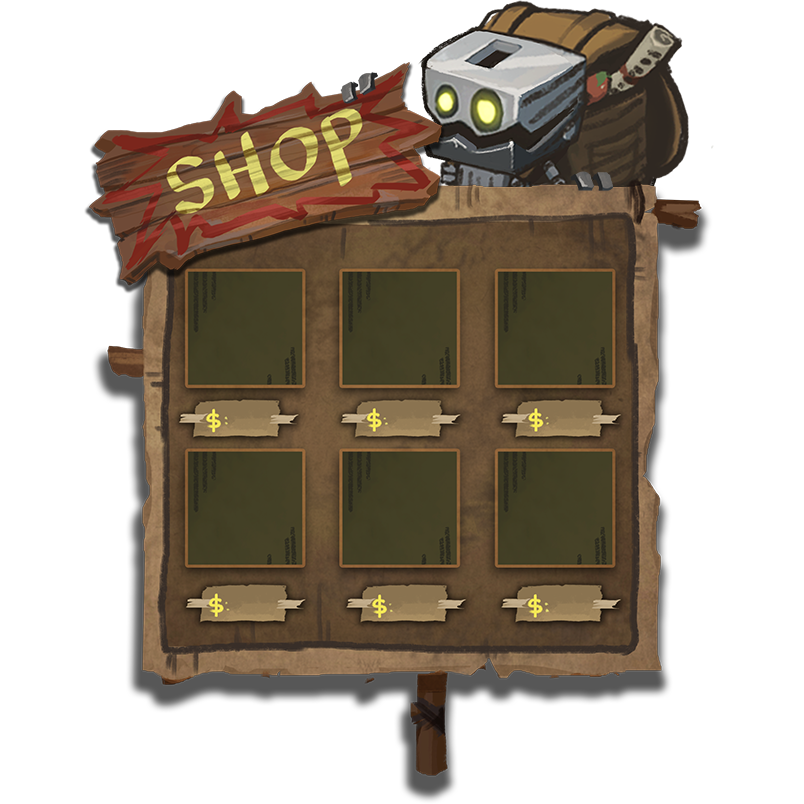
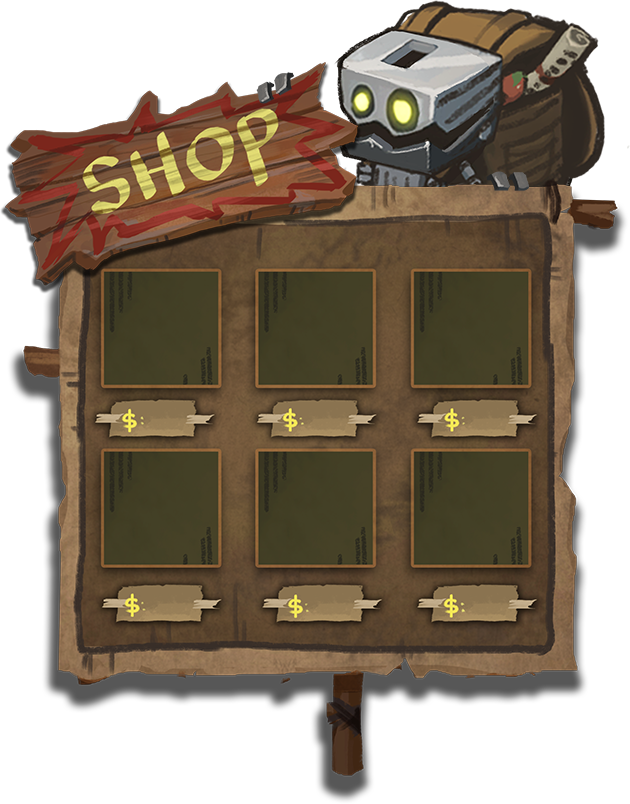
制作商店界面

diff --git a/client/src/view/TipConfirmView.ts b/client/src/view/TipConfirmView.ts
@@ -8,6 +8,7 @@ class TipConfirmView extends egret.DisplayObjectContainer {
         super();
         this.width = w;
         this.height = h;
+        this.name = "tipConfirm";
 
         this.bg = ViewUtils.createBitmapByName("translucent_png");
         this.bg.x = this.bg.y = 0;
@@ -32,14 +33,16 @@ class TipConfirmView extends egret.DisplayObjectContainer {
     }
 
     // 等待点击一下
-    onBgClicked;
     public wait4clickAny():Promise<void> {
         this.addChild(this.bg);
-        return new Promise<void>((resolve, reject) => this.onBgClicked = resolve);
+        return new Promise<void>((resolve, reject) => this.onBgClicked = () => {
+            this.removeChild(this.bg);
+            resolve();
+        });
     }
 
+    onBgClicked;
     onBg(evt:egret.TouchEvent) {
-        this.removeChild(this.bg);
         if (this.onBgClicked)
             this.onBgClicked();
     }
@@ -67,10 +70,13 @@ class TipConfirmView extends egret.DisplayObjectContainer {
     // yesno 部分
 
     private okyesnoPanel:egret.DisplayObjectContainer;
+    private yesnoBg:egret.Bitmap;
     private yesnoTitle:egret.TextField;
-    private btnOk:egret.TextField;
-    private btnYes:egret.TextField;
-    private btnNo:egret.TextField;
+    private yesnoContent:egret.TextField;
+    private btnOk:TextButtonWithBg;
+    private btnYes:TextButtonWithBg;
+    private btnNo:TextButtonWithBg;
+    private yesnoObjs:egret.DisplayObject[];
 
     createOkYesNoLayer() {
         this.okyesnoPanel = new egret.DisplayObjectContainer();
@@ -78,77 +84,73 @@ class TipConfirmView extends egret.DisplayObjectContainer {
         this.okyesnoPanel.width = this.width;
         this.okyesnoPanel.height = this.height;
 
-        this.yesnoTitle = new egret.TextField();
-        this.yesnoTitle.x = this.yesnoTitle.y = 0;
-        this.yesnoTitle.textAlign = egret.HorizontalAlign.CENTER;
-        this.yesnoTitle.verticalAlign = egret.VerticalAlign.MIDDLE;
-        this.yesnoTitle.textColor = 0x000000;
-        this.yesnoTitle.size = 50;
-        this.yesnoTitle.width = this.width;
-        this.yesnoTitle.height = this.height / 2;
-        this.okyesnoPanel.addChild(this.yesnoTitle);
+        this.yesnoBg = ViewUtils.createBitmapByName("confirmBg_png");
+        this.yesnoBg.name = "yesnoBg";
 
-        this.btnOk = ViewUtils.createTextField(30, 0x000000);
-        this.btnYes = ViewUtils.createTextField(30, 0x000000);
-        this.btnNo = ViewUtils.createTextField(30, 0x000000);
+        this.yesnoTitle = ViewUtils.createTextField(30, 0xff0000);
+        this.yesnoTitle.bold = true;
+        this.yesnoTitle.name = "yesnoTitle";
 
-        this.btnOk.touchEnabled = true;
-        this.btnYes.touchEnabled = true;
-        this.btnNo.touchEnabled = true;
-        this.btnOk.addEventListener(egret.TouchEvent.TOUCH_TAP, this.onConfirmOk, this);
-        this.btnYes.addEventListener(egret.TouchEvent.TOUCH_TAP, this.onConfirmYes, this);
-        this.btnNo.addEventListener(egret.TouchEvent.TOUCH_TAP, this.onConfirmNo, this);
+        this.yesnoContent = ViewUtils.createTextField(25, 0x00000);
+        this.yesnoContent.name = "yesnoContent";
+
+        this.btnOk = new TextButtonWithBg("btnBg_png", 30); this.btnOk.name = "btnOk";
+        this.btnYes = new TextButtonWithBg("btnBg_png", 30); this.btnYes.name = "btnYes";
+        this.btnNo = new TextButtonWithBg("btnBg_png", 30); this.btnNo.name = "btnNo";
+
+        this.yesnoObjs = [this.yesnoBg, this.yesnoTitle, this.yesnoContent, this.btnOk, this.btnYes, this.btnNo];
+        this.yesnoObjs.forEach((obj, _) => this.okyesnoPanel.addChild(obj));
+        ViewUtils.multiLang(this, ...this.yesnoObjs);
+
+        this.btnOk.onClicked = () => this.onConfirmOk();
+        this.btnYes.onClicked = () => this.onConfirmYes();
+        this.btnNo.onClicked = () => this.onConfirmNo();
     }
 
     private confirmOkCallback;
     private confirmYesNoCallback;
-    private confirmCancelCallback;
-    public confirmOkYesNo(title:string, yesno:boolean, btnText):Promise<boolean> {
+    public confirmOkYesNo(title:string, content:string, yesno:boolean, btnText):Promise<boolean> {
         this.clear();
         this.addChild(this.bg);
         this.yesnoTitle.text = title;
+        this.yesnoContent.text = content;
         this.addChild(this.okyesnoPanel);
+
+        this.okyesnoPanel.addChild(this.btnYes);
+        this.okyesnoPanel.addChild(this.btnNo);
+        this.okyesnoPanel.addChild(this.btnOk);
 
         if (yesno) {
             this.btnYes.text = btnText.yes;
             this.btnNo.text = btnText.no;
-            this.okyesnoPanel.addChild(this.btnYes);
-            this.okyesnoPanel.addChild(this.btnNo);
+            this.okyesnoPanel.removeChild(this.btnOk);
         } else {
             this.btnOk.text = btnText.ok;
-            this.okyesnoPanel.addChild(this.btnOk);
+            this.okyesnoPanel.removeChild(this.btnYes);
+            this.okyesnoPanel.removeChild(this.btnNo);
         }
 
-        this.btnOk.x = this.width / 2 - this.btnOk.width / 2;
-        this.btnOk.y = this.height / 2 + this.btnOk.height / 2;
-        this.btnYes.x = this.width / 2 - this.btnYes.width * 1.5;
-        this.btnYes.y = this.height / 2 + this.btnYes.height / 2;
-        this.btnNo.x = this.width / 2 + this.btnNo.width / 2;
-        this.btnNo.y = this.height / 2 + this.btnNo.height / 2;
+        this.onBgClicked = this.onConfirmNo;
 
         return new Promise<boolean>((resolve, reject) => {
             this.confirmOkCallback = resolve;
             this.confirmYesNoCallback = resolve;
-            this.confirmCancelCallback = reject;
         });
     }
 
-    onConfirmOk(evt:egret.TouchEvent) {
-        this.okyesnoPanel.removeChild(this.btnOk);
+    onConfirmOk() {
         this.removeChild(this.okyesnoPanel);
         this.removeChild(this.bg);
         this.confirmOkCallback(true);
     }
 
-    onConfirmYes(evt:egret.TouchEvent) {
-        this.okyesnoPanel.removeChild(this.btnYes);
+    onConfirmYes() {
         this.removeChild(this.okyesnoPanel);
         this.removeChild(this.bg);
         this.confirmYesNoCallback(true);
     }
 
-    onConfirmNo(evt:egret.TouchEvent) {
-        this.okyesnoPanel.removeChild(this.btnNo);
+    onConfirmNo() {
         this.removeChild(this.okyesnoPanel);
         this.removeChild(this.bg);
         this.confirmYesNoCallback(false);

diff --git a/client/src/view/MainView.ts b/client/src/view/MainView.ts
@@ -28,12 +28,12 @@ class MainView extends egret.DisplayObjectContainer {
         // 商店视图
         this.sv = new ShopView(w, h);
         this.sv.x = this.sv.y = 0;
-        this.sv.confirmOkYesNo = (title, yesno) => this.confirmOkYesNo(title, yesno);
+        this.sv.confirmOkYesNo = (title, content, yesno) => this.confirmOkYesNo(title, content, yesno);
 
         // 遗物选择视图
         this.rsv = new RelicSelView(w, h);
         this.rsv.x = this.rsv.y = 0;
-        this.rsv.confirmOkYesNo = (title, yesno) => this.confirmOkYesNo(title, yesno);
+        this.rsv.confirmOkYesNo = (title, content, yesno) => this.confirmOkYesNo(title, content, yesno);
 
         // 战斗视图
         this.bv = new BattleView(w, h);
@@ -61,14 +61,14 @@ class MainView extends egret.DisplayObjectContainer {
         this.wmv.openBoxRoom = async (openBoxRoom) => await this.openBoxRoom(openBoxRoom);
         this.wmv.openTurntable = async () => await this.openTurntable();
         this.wmv.openEventSels = async (title, desc, sels) => await this.openWorldMapEventSels(title, desc, sels);
-        this.wmv.confirmOkYesNo = async (title, yesno) => await this.confirmOkYesNo(title, yesno);
+        this.wmv.confirmOkYesNo = async (title, content, yesno) => await this.confirmOkYesNo(title, content, yesno);
         this.wmv.selRelic = async (title, f) => await this.openSelRelic(title, f);
         this.wmv.openPlayerDieView = async () => await this.openPlayerDieView();
 
         // 医院视图
         this.hv = new HospitalView(w, h);
         this.hv.x = this.hv.y = 0;
-        this.hv.confirmOkYesNo = async (title, yesno) => await this.confirmOkYesNo(title, yesno);
+        this.hv.confirmOkYesNo = async (title, content, yesno) => await this.confirmOkYesNo(title, content, yesno);
         this.hv.selRelic = async (title, f) => await this.openSelRelic(title, f);
 
         // 排行榜视图
@@ -279,7 +279,7 @@ class MainView extends egret.DisplayObjectContainer {
             var r = await platform.login();
 
             if (!r.ok)
-                retry = await this.confirmOkYesNo("连接服务器失败", true, {yes:"重试", no:"取消"});
+                retry = await this.confirmOkYesNo(undefined, "连接服务器失败", true, {yes:"重试", no:"取消"});
             else
                 return r;
         }
@@ -320,7 +320,7 @@ class MainView extends egret.DisplayObjectContainer {
     // 打开角色死亡界面
     public async openPlayerDieView() {
         Utils.savePlayer(undefined);
-        await this.confirmOkYesNo("不幸死亡", false);
+        await this.confirmOkYesNo("不幸死亡", "有些情况也许你能复活", false);
         this.p = undefined;
         this.openStartup(undefined);
     }
@@ -334,9 +334,9 @@ class MainView extends egret.DisplayObjectContainer {
     }
 
     // yesno
-    public async confirmOkYesNo(title, yesno:boolean, btnText = {}) {
+    public async confirmOkYesNo(title, content, yesno:boolean, btnText = {}) {
         btnText = Utils.merge({"yes":"yes", "no":"no", "ok":"ok"}, btnText);
-        return await this.tcv.confirmOkYesNo(title, yesno, btnText);
+        return await this.tcv.confirmOkYesNo(title, content, yesno, btnText);
     }
 
     // ranking

diff --git a/client/src/view/HospitalView.ts b/client/src/view/HospitalView.ts
@@ -67,7 +67,7 @@ class HospitalView extends egret.DisplayObjectContainer {
     }
 
     async onCure(evt:egret.TouchEvent) {
-        var yesno = await this.confirmOkYesNo("确定治疗？(回复最多 50% 生命)", true);
+        var yesno = await this.confirmOkYesNo(undefined, "确定治疗？(回复最多 50% 生命)", true);
         if (yesno) {
             this.player.addHp(this.player.maxHp / 2);
             this.doClose();
@@ -83,7 +83,7 @@ class HospitalView extends egret.DisplayObjectContainer {
             sel = await this.selRelic("选择要强化的遗物", (r:Relic) => r.canReinfoce());
             if (sel >= 0) {
                 var e:Relic = <Relic>this.player.relics[sel];
-                var yesno = await this.confirmOkYesNo("确定强化 " + ViewUtils.getElemNameAndDesc(e.type).name, true);
+                var yesno = await this.confirmOkYesNo(undefined, "确定强化 " + ViewUtils.getElemNameAndDesc(e.type).name, true);
                 if (yesno) {
                     e.reinforceLvUp();
                     this.doClose();
@@ -105,7 +105,7 @@ class HospitalView extends egret.DisplayObjectContainer {
             sel = await this.selRelic("选择要变异的遗物", (r) => true);
             if (sel >= 0) {
                 var e = this.player.relics[sel];
-                var yesno = await this.confirmOkYesNo("确定变异 " + ViewUtils.getElemNameAndDesc(e.type).name, true);
+                var yesno = await this.confirmOkYesNo(undefined, "确定变异 " + ViewUtils.getElemNameAndDesc(e.type).name, true);
                 if (yesno) {
                     this.doClose();
                 } else

diff --git a/client/src/view/ShopView.ts b/client/src/view/ShopView.ts
@@ -27,7 +27,7 @@ class ShopView extends egret.DisplayObjectContainer {
         this.bg.width = this.width;
         this.bg.height = this.height;
 
-        this.bg1 = ViewUtils.createBitmapByName("translucent_png");
+        this.bg1 = ViewUtils.createBitmapByName("svbg_png");
         this.bg1.name = "bg1";
         this.addChild(this.bg1);
 
@@ -41,9 +41,9 @@ class ShopView extends egret.DisplayObjectContainer {
             gd.addEventListener(egret.TouchEvent.TOUCH_TAP, this.onSelItem, this);
 
             var pt = new egret.TextField();
-            pt.textColor = 0x000000;
-            pt.size = 30;
-            pt.textAlign = egret.HorizontalAlign.CENTER;
+            pt.textColor = 0xffffff;
+            pt.size = 20;
+            pt.textAlign = egret.HorizontalAlign.LEFT;
             pt.verticalAlign = egret.VerticalAlign.MIDDLE;
             pt.name = "price" + i.toString();
             this.prices.push(pt);
@@ -117,7 +117,7 @@ class ShopView extends egret.DisplayObjectContainer {
     async onSelItem(evt:egret.TouchEvent) {
         var n = evt.target["itemIndex"];
         var e = this.items[n];
-        var yesno = await this.confirmOkYesNo("确定购买 " + ViewUtils.getElemNameAndDesc(e).name + "，花费 " + this.itemPrices[e] + " 金币 ?");
+        var yesno = await this.confirmOkYesNo(ViewUtils.getElemNameAndDesc(e).name, "花费 " + this.itemPrices[e] + " 金币 ?", true);
         if (yesno)
             await this.onSel(n);
     }

diff --git a/common/logic/WorldMap/WorldMapEventSel.ts b/common/logic/WorldMap/WorldMapEventSel.ts
@@ -125,7 +125,7 @@ class WorldMapEventSelFactory {
                     sel = await this.selRelic("选择要强化的遗物", (r:Relic) => r.canReinfoce());
                     if (sel >= 0) {
                         var e:Relic = <Relic>p.relics[sel];
-                        var yesno = await this.confirmOkYesNo("确定强化 " + ViewUtils.getElemNameAndDesc(e.type).name, true);
+                        var yesno = await this.confirmOkYesNo(undefined, "确定强化 " + ViewUtils.getElemNameAndDesc(e.type).name, true);
                         if (yesno)
                             e.reinforceLvUp();
                         else

diff --git a/client/src/view/TextButtonWithBg.ts b/client/src/view/TextButtonWithBg.ts
@@ -132,11 +132,13 @@ class TextButtonWithBg extends egret.DisplayObjectContainer {
             this.downBg.alpha = 0;
     }
 
-    private refresh() {
+    public refresh() {
         var objs = [this.bg, this.downBg, this.disabledBg, this.ft, this.textField];
         objs.forEach((obj, i) => {
             if (obj) {
                 obj.x = this.bg.y = 0;
+                obj.width = this.width;
+                obj.height = this.height;
                 this.setChildIndex(obj, i);
             }
         });

diff --git a/client/src/view/ViewUtils.ts b/client/src/view/ViewUtils.ts
@@ -139,6 +139,9 @@ class ViewUtils {
                 var bmp = p instanceof TextButtonWithBg ? p.bg : p;
                 ViewUtils.setTexName(bmp, curCfg.imgs[name][mlCfg.currentLanguage] ? curCfg.imgs[name][mlCfg.currentLanguage] : curCfg.imgs[name]);
             }
+
+            if (p instanceof TextButtonWithBg)
+                (<TextButtonWithBg>p).refresh();
         }
     }
 
